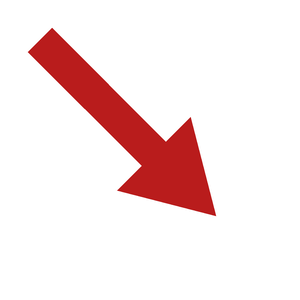
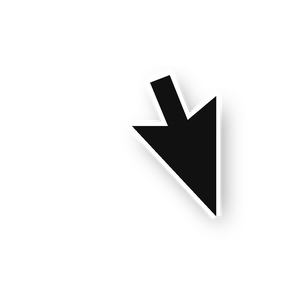
rename to Heatline: product name, live URL, cursor pointer

Changed region(s): [[0.09, 0.09, 0.78, 0.72]]

diff --git a/src/app/page.tsx b/src/app/page.tsx
@@ -2,7 +2,7 @@ import type { Metadata } from "next";
 import { CreateCase } from "@/components/case/CreateCase";
 
 export const metadata: Metadata = {
-  title: "Order to Correct",
+  title: "Heatline",
 };
 
 export default function Home() {
@@ -10,7 +10,7 @@ export default function Home() {
     <main className="mx-auto w-full max-w-[1120px] px-4 pb-24 sm:px-8">
       <header className="border-b-2 border-ink pb-6 pt-8">
         <div className="flex flex-wrap items-baseline justify-between gap-x-8 gap-y-2">
-          <h1 className="plate text-[clamp(2.25rem,5vw,3.5rem)] text-balance">Order to Correct</h1>
+          <h1 className="plate text-[clamp(2.25rem,5vw,3.5rem)] text-balance">Heatline</h1>
           <p className="colhead">tenant · advocate · one case</p>
         </div>
         <p className="mt-3 max-w-xl text-[1.0625rem] leading-snug text-pretty">

diff --git a/src/components/case/CaseView.tsx b/src/components/case/CaseView.tsx
@@ -174,7 +174,7 @@ export function CaseView() {
       <div className="mx-auto w-full max-w-[1360px] px-4 pb-24 sm:px-8">
         <header className="flex flex-wrap items-baseline justify-between gap-x-8 gap-y-2 border-b border-ink py-3">
           <Link href="/" className="plate text-[1.0625rem] hover:text-accent">
-            Order to Correct
+            Heatline
           </Link>
           <div className="flex flex-wrap items-center gap-4">
             <StreamDot state={stream} />

diff --git a/src/app/c/[caseId]/page.tsx b/src/app/c/[caseId]/page.tsx
@@ -18,7 +18,7 @@ export async function generateMetadata({ params, searchParams }: PageProps<"/c/[
   const { caseId } = await params;
   const sp = await searchParams;
   const caseState = await getCase(caseId);
-  if (!caseState) return { title: "Order to Correct: no case at this link" };
+  if (!caseState) return { title: "Heatline: no case at this link" };
   const view = roleForKey(caseState, keyFrom(sp)) ?? "invalid link";
   return {
     title: `${caseState.title}, ${view} view`,

diff --git a/src/lib/types.ts b/src/lib/types.ts
@@ -1,5 +1,5 @@
 /**
- * The whole domain model for Order to Correct: a Case shared by a tenant (Role "owner") and a
+ * The whole domain model for Heatline: a Case shared by a tenant (Role "owner") and a
  * legal-aid advocate (Role "partner") on one NYC building. Everything in src/lib/webmcp and
  * src/lib/store/backend.ts is domain-agnostic and does not change; this file and
  * src/lib/store/actions.ts are the two files a domain fork rewrites.

diff --git a/scripts/build-index.ts b/scripts/build-index.ts
@@ -39,7 +39,7 @@ const WINTER_COUNT = 3;
 async function fetchJson<T>(url: string, label: string): Promise<T> {
   for (let attempt = 0; attempt < 3; attempt++) {
     const res = await fetch(url, {
-      headers: { "User-Agent": "order-to-correct-index-builder/1.0" },
+      headers: { "User-Agent": "heatline-index-builder/1.0" },
     });
     if (res.ok) return (await res.json()) as T;
     if (res.status === 429 || res.status >= 500) {

diff --git a/src/app/globals.css b/src/app/globals.css
@@ -1,7 +1,7 @@
 @import "tailwindcss";
 
 /*
- * Order to Correct reads as a legal docket printed by a broadsheet, not a dashboard. Every
+ * Heatline reads as a legal docket printed by a broadsheet, not a dashboard. Every
  * colour here is a meaning: a violation class, a source citation, or the fact that a packet
  * has been filed. Nothing is decoration.
  *

diff --git a/src/lib/index/index.ts b/src/lib/index/index.ts
@@ -1,4 +1,4 @@
-// The Data layer API for Order to Correct. Reads data/index.json (built by
+// The Data layer API for Heatline. Reads data/index.json (built by
 // scripts/build-index.ts) and exposes the exact surface documented in
 // docs/BUILD-CONTRACT.md. No network calls at runtime, this module is pure reads
 // and pure functions over the built index.

diff --git a/src/app/layout.tsx b/src/app/layout.tsx
@@ -28,7 +28,7 @@ const plexMono = IBM_Plex_Mono({
 
 export const metadata: Metadata = {
   title: {
-    default: "Order to Correct",
+    default: "Heatline",
     template: "%s",
   },
   description:

diff --git a/video/assemble/gen_pointer.py b/video/assemble/gen_pointer.py
@@ -1,24 +1,23 @@
 #!/usr/bin/env python3
-"""Big bold pointer arrow for diagram overlays. Straight thick shaft, large head,
-fill colour from argv[1] (hex), white outline. Tail upper-left, tip lower-right.
-Tip is at (216,216) on a 300x300 canvas (same 0.72 ratio the cue filter expects)."""
-import sys, math
-from PIL import Image, ImageDraw
+"""macOS-style arrow cursor sprite, 300x300 canvas, tip at (216,216) so the existing cue_filter
+tip math (0.72 ratio) still lands the hotspot on the target. Black fill, white outline, soft drop
+shadow. Big enough to read at 1080p."""
+import sys
+from PIL import Image, ImageDraw, ImageFilter
 SS=4; C=300*SS
-FILL=tuple(int(sys.argv[1].lstrip('#')[i:i+2],16) for i in (0,2,4))+(255,)
-OUT=(255,255,255,255)
-TAIL=(40,40); TIP=(216,216)
-ang=math.atan2(TIP[1]-TAIL[1],TIP[0]-TAIL[0])
-def pt(p,d,a): return (p[0]+d*math.cos(a),p[1]+d*math.sin(a))
-head_len=88; head_half=52; shaft_half=17
-base=pt(TIP,-head_len,ang)
-left=pt(base,head_half,ang-math.pi/2); right=pt(base,head_half,ang+math.pi/2)
-sl=pt(base,shaft_half,ang-math.pi/2); sr=pt(base,shaft_half,ang+math.pi/2)
-tl=pt(TAIL,shaft_half,ang-math.pi/2); tr=pt(TAIL,shaft_half,ang+math.pi/2)
-poly=[TIP,left,sl,tl,tr,sr,right]
-img=Image.new("RGBA",(C,C),(0,0,0,0)); d=ImageDraw.Draw(img)
-S=lambda ps:[(x*SS,y*SS) for x,y in ps]
-d.polygon(S(poly),fill=OUT,outline=OUT,width=8*SS)
-d.line(S(poly+[TIP]),fill=OUT,width=8*SS,joint="curve")
-d.polygon(S(poly),fill=FILL)
-img.resize((300,300),Image.LANCZOS).save(sys.argv[2]); print("wrote",sys.argv[2])
+# classic arrow cursor outline in a 0..1 unit box (tip at 0,0), from the standard macOS shape
+pts=[(0,0),(0,0.80),(0.19,0.64),(0.31,0.94),(0.44,0.89),(0.32,0.60),(0.56,0.60)]
+size=150.0  # px of the unit box in the 300 canvas
+tip=(216,216); off=(tip[0]-0,tip[1]-0)
+# we want the tip at (216,216) and the body extending up-left: flip both axes
+poly=[(tip[0]-x*size, tip[1]-y*size) for x,y in pts]
+img=Image.new("RGBA",(C,C),(0,0,0,0))
+sh=Image.new("RGBA",(C,C),(0,0,0,0)); d=ImageDraw.Draw(sh)
+d.polygon([(x*SS+6*SS,y*SS+8*SS) for x,y in poly],fill=(0,0,0,110))
+sh=sh.filter(ImageFilter.GaussianBlur(10*SS))
+img.alpha_composite(sh)
+d=ImageDraw.Draw(img)
+d.polygon([(x*SS,y*SS) for x,y in poly],fill=(255,255,255,255),outline=(255,255,255,255),width=9*SS)
+d.line([(x*SS,y*SS) for x,y in poly+[poly[0]]],fill=(255,255,255,255),width=9*SS,joint="curve")
+d.polygon([(x*SS,y*SS) for x,y in poly],fill=(17,17,17,255))
+img.resize((300,300),Image.LANCZOS).save(sys.argv[1]); print("wrote",sys.argv[1])

diff --git a/video/assemble/cue_filter.py b/video/assemble/cue_filter.py
@@ -33,7 +33,7 @@ longer duration than the base). Produces [vout].
 """
 import sys
 
-PTR_W, PTR_H = 260, 260
+PTR_W, PTR_H = 150, 150
 # tip position within the *scaled* pointer sprite (bottom-right, pointing
 # down-right into the target corner) -- see gen_pointer.py TIP=(108,108) on
 # a 150x150 canvas, scaled by PTR_W/150.
@@ -42,7 +42,7 @@ TIP_Y = round(216 * PTR_H / 300, 1)
 
 BOX_COLOR = "0xb91c1c"
 BOX_THICK = 6
-SLIDE_S = 0.4
+SLIDE_S = 0.7
 # how far inside the box's top-left corner the arrow tip lands
 INSET_FRAC = 0.14
 
@@ -89,10 +89,15 @@ def build_axis_expr(values, starts, key):
     def seg_val(i):
         v = round(values[i][key], 1)
         if i == 0:
-            return f"{v}"
+            return f"{v}+(3*sin(1.7*t))"
         prev = round(values[i - 1][key], 1)
         s = starts[i]
-        return f"if(lt(t,{s}+{SLIDE_S}),{prev}+({v}-{prev})*(t-{s})/{SLIDE_S},{v})"
+        # smoothstep ease over SLIDE_S, then a slow 3px idle drift so the cursor never sits
+        # perfectly still (a human hand never does), with a small overshoot-free settle.
+        u = f"((t-{s})/{SLIDE_S})"
+        ease = f"({u}*{u}*(3-2*{u}))"
+        drift = f"(3*sin(1.7*(t-{s})+{i}))"
+        return f"if(lt(t,{s}+{SLIDE_S}),{prev}+({v}-{prev})*{ease},{v}+{drift})"
 
     expr = f"{round(values[n - 1][key], 1)}" if n == 1 else seg_val(n - 1)
     for i in range(n - 2, -1, -1):

diff --git a/video/diagrams/exrender/build_scenes.py b/video/diagrams/exrender/build_scenes.py
@@ -1,5 +1,5 @@
 #!/usr/bin/env python3
-"""Generate the three .excalidraw scenes for the Order to Correct demo video.
+"""Generate the three .excalidraw scenes for the Heatline demo video.
 Palette from DESIGN.md. A transparent 1920x1080 frame element makes the export
 bbox exactly 16:9 so exportToBlob at 1920x1080 scale 1 is pixel-for-pixel."""
 import json, random, sys, os
@@ -138,7 +138,7 @@ def scene_pipeline():
 def scene_two():
     el=[frame(),eyebrow("ORDER TO CORRECT  /  TWO AGENTS, ONE CASE")]
     el.append(rect(560,102,800,66,stroke=HAIR,strokeWidth=2))
-    el.append(text("order-to-correct.vercel.app / case / <id>",960,120,26,INK))
+    el.append(text("heatline-nyc.vercel.app / case / <id>",960,120,26,INK))
     def window(x,title,sub,tools,gone,cx,color):
         o=[rect(x,232,700,556,stroke=INK,strokeWidth=3)]
         o.append(line(x,314,x+700,314,stroke=INK,strokeWidth=2))
@@ -178,7 +178,7 @@ def main():
     for name,fn in SCENES.items():
         _n[0]=0
         scene={"type":"excalidraw","version":2,
-          "source":"order-to-correct/docs/diagrams/build_scenes.py",
+          "source":"heatline/docs/diagrams/build_scenes.py",
           "elements":fn(),
           "appState":{"gridSize":None,"viewBackgroundColor":PAPER,"exportBackground":True,
             "exportWithDarkMode":False,"exportEmbedScene":False,"exportScale":1},

diff --git a/DESIGN.md b/DESIGN.md
@@ -1,6 +1,6 @@
 ---
 version: alpha
-name: Order-to-Correct-design-system
+name: Heatline-design-system
 description: A housing-court docket printed by a broadsheet, not a paper case register. Stark white canvas, black ink, a tall condensed serif display for the address and record numbers, hairline rules between panels, numbered packet sections (I., II., III.), dateline-style mono timestamps, all-caps tracked labels for panel headings. One civic red accent for the primary action and focus ring. Zero shadows, zero gradients, square corners throughout.
 structure_source: "Structure adapted from docs/DESIGN-SOURCE-wired.md (Wired: white canvas, black ink, tall condensed serif display, hairline rules, editorial column rhythm, one link blue). Branding not copied: no Wired wordmark, no proprietary fonts. Fallback stack only."
 research_source: "Colour, tier, and type reasoning carried over and re-derived from the prior paper/Archivo revision of this file; contrast ratios below are freshly computed against the new white canvas, not copied."
@@ -201,7 +201,7 @@ components:
 
 ## Overview
 
-Order to Correct reads like a legal docket printed by a broadsheet newspaper, not a courthouse
+Heatline reads like a legal docket printed by a broadsheet newspaper, not a courthouse
 bulletin board and not a SaaS dashboard. The canvas is pure `{colors.canvas}` (#FFFFFF); ink is
 pure `{colors.ink}` (#000000). The address and building record numbers are set in a tall
 condensed serif display face, the way a broadsheet sets its section heads. Panels are separated
@@ -276,7 +276,7 @@ class, so counts never jitter in width as they update.
 
 | Token | Size | Weight | Line Height | Tracking | Use |
 |---|---|---|---|---|---|
-| `{typography.display-hero}` | 56px | 700 | 56px | -0.5px | Site masthead ("Order to Correct") on the home page |
+| `{typography.display-hero}` | 56px | 700 | 56px | -0.5px | Site masthead ("Heatline") on the home page |
 | `{typography.display-lg}` | 48px | 700 | 48px | -0.4px | Building record numeral, case address hero |
 | `{typography.display-md}` | 32px | 700 | 34px | -0.3px | Section headline inside a panel |
 | `{typography.display-sm}` | 24px | 700 | 27px | -0.2px | Role band headline ("You are the advocate") |
